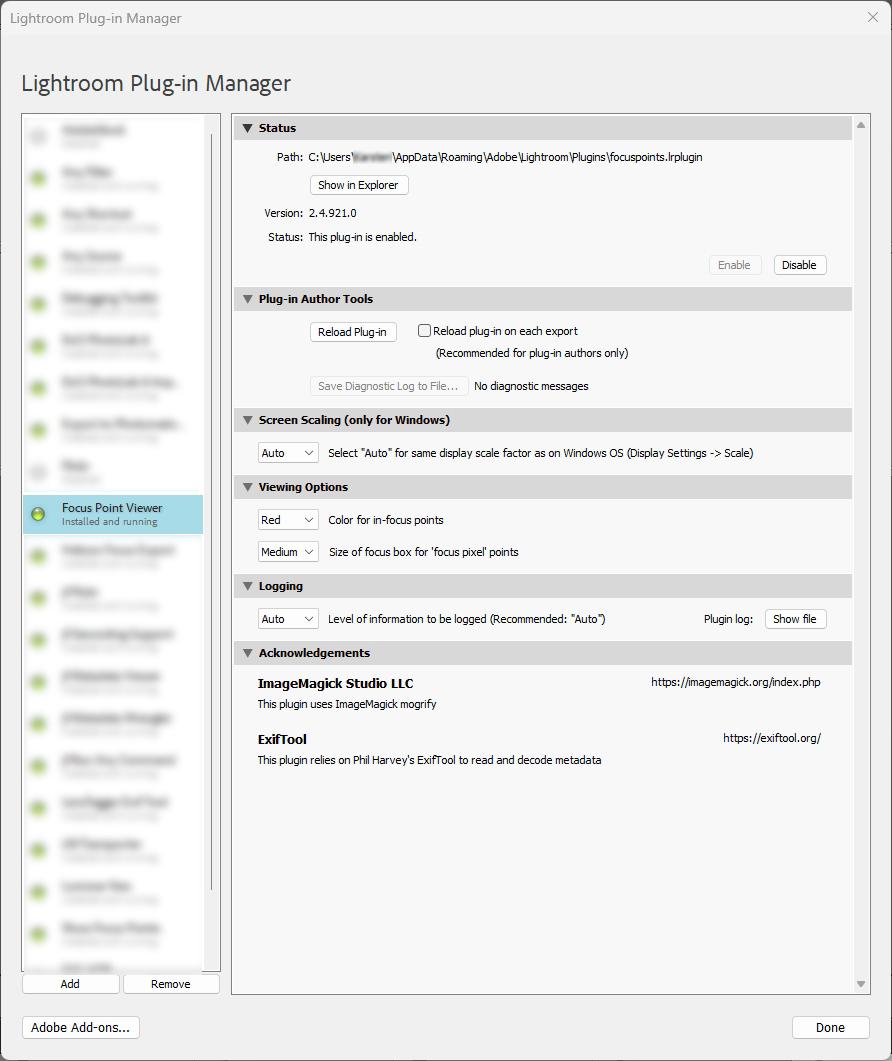
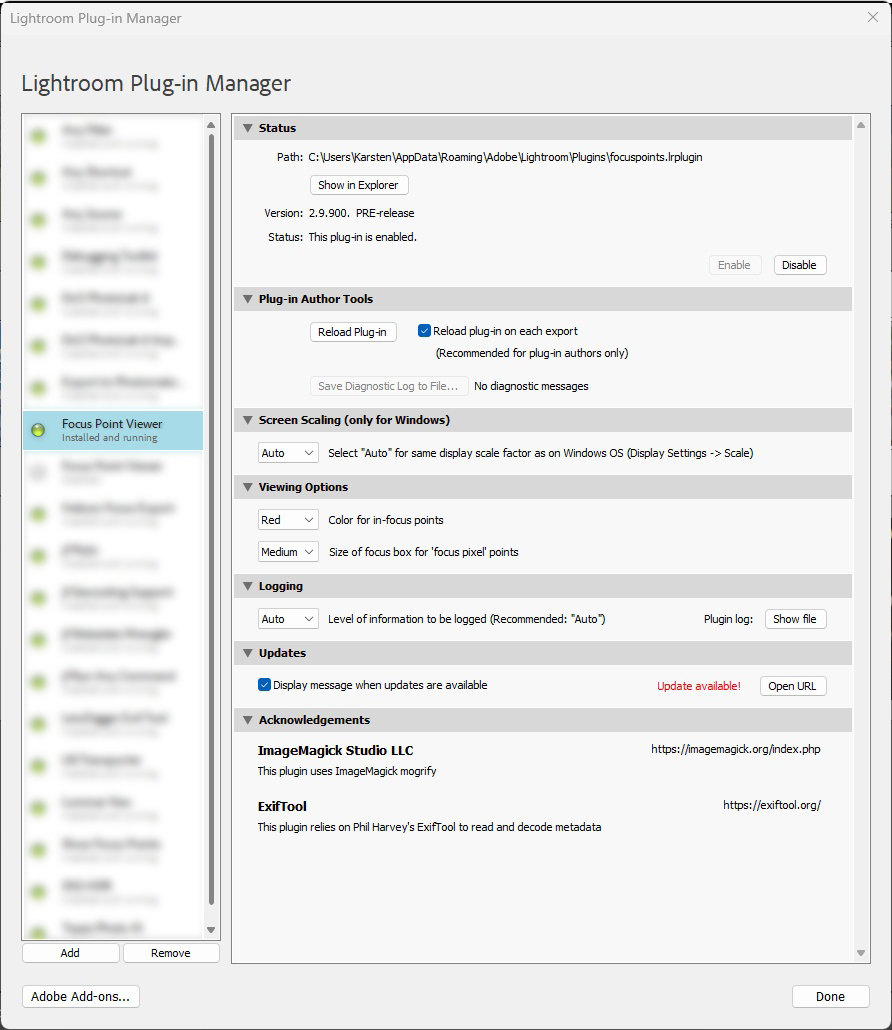
Updated docs

diff --git a/docs/Focus Points.md b/docs/Focus Points.md
@@ -128,6 +128,15 @@ The logging mechanism offers a fin grain hierarchy of levels which information s
 Also, "Auto" logging will start on an empty log file for each image. When opening such a logfile, this will immediately focus on what just happened on the recent image. For all other logging levels, the logfile will be emptied only in case of loading the plugin, which happens at the time of starting LrC or explicitely reloading the plugin.  
 
 
+**Updates**
+
+During operation, the plugin checks whether an updated version is available for download.
+In case there is an update, this will be highlighted and the website can be opened by clicking the button to download. In order to install the update, perform the steps under [Installation](#21-installation) and reload the plugin.    
+
+If an update is available, this will also be displayed in the status area of the focus point viewer, if the "Display message" checkbox is checked:
+
+<img src="../screens/UpdateAvailable.jpg" alt="User Interface (Single image)" style="width: 600px;"/>
+
 
 ### 2.3 Focus Point Viewer
 Once the plugin has been installed, it can be invoked with one or more photos selected:
@@ -321,7 +330,7 @@ Remark: The display of "AF Tracking Sensitivity" and "AF Point Switching" in the
 
 Sony supports face detection on almost all of their mirrorless (alpha) and also compact (RX series) camera. The plugin can display the yellow face detection frames even on images taken with cameras 14 years back where it's not possible to detect focus points using EXIF data.
 
-On Sony, the size of the focus point box is determined by the size of a PDAF point (or focal plane autofocus point, in Sony terminology). So, the color of the box can be changed in plugin preferenes but not its size.
+For Sony, the focus point of an image is given by the (x,y) coordinates of the 'focus pixel". So, for improved visualization you can choose focus box size and color in the plugin's preferences. 
 
 As for the settings in Sony's AF menu, in contrast to Canon and Nikon there's not much that you can find in EXIF makernotes. That's why the focus information section is rather empty. Sony also doesn't have a focus distance tag, so there is no Depth of Field section either.
 

diff --git a/README.md b/README.md
@@ -12,7 +12,7 @@ For details on scope and limitations as well as comprehensive operating instruct
 
 Current Release
 --------
-## V3.0, March 28, 2025
+## V3.0, April xx, 2025
 
 ### New features and changes:
  
@@ -30,7 +30,7 @@ Current Release
 
 * **Camera specific improvements to focus point detection and display**
   * Nikon: added full support of Mirrorless and all DSLRs with 39 or more autofocus points  [#203](https://github.com/musselwhizzle/Focus-Points/issues/203), [#208](https://github.com/musselwhizzle/Focus-Points/issues/208),  [#209](https://github.com/musselwhizzle/Focus-Points/issues/209), [#211](https://github.com/musselwhizzle/Focus-Points/issues/211), [#212](https://github.com/musselwhizzle/Focus-Points/issues/212).
-  * Sony: fixed coordinates of phase detection focus points [#176](https://github.com/musselwhizzle/Focus-Points/issues/176). Unified implementation for Sony Alpha and RX10M4 [#213](https://github.com/musselwhizzle/Focus-Points/issues/213)
+  * Sony: unified implementation for Sony Alpha and RX10M4 [#213](https://github.com/musselwhizzle/Focus-Points/issues/213). Fixed coordinates of phase detection focus points [#176](https://github.com/musselwhizzle/Focus-Points/issues/176). Fixed incorrect position of focus point display of in-camera cropped images (1:1, 4:3, 16:9) [#228](https://github.com/musselwhizzle/Focus-Points/issues/228) 
   * Face detection frames added for Sony [#222](https://github.com/musselwhizzle/Focus-Points/issues/222), Panasonic [#223](https://github.com/musselwhizzle/Focus-Points/issues/223), Olympus [#219](https://github.com/musselwhizzle/Focus-Points/issues/219), Apple [#218](https://github.com/musselwhizzle/Focus-Points/issues/218). 
   * Face and subjection detection frames added for Fuji [#165](https://github.com/musselwhizzle/Focus-Points/issues/165).
   * Pentax: Fixed a problem that prevented the plugin from recognizing K-3, K-1 and K-1 Mark II [#206](https://github.com/musselwhizzle/Focus-Points/issues/206).

diff --git a/docs/changelog.md b/docs/changelog.md
@@ -19,7 +19,7 @@ Change history
 
 * **Camera specific improvements to focus point detection and display**
   * Nikon: added full support of Mirrorless and all DSLRs with 39 or more autofocus points  [#203](https://github.com/musselwhizzle/Focus-Points/issues/203), [#208](https://github.com/musselwhizzle/Focus-Points/issues/208),  [#209](https://github.com/musselwhizzle/Focus-Points/issues/209), [#211](https://github.com/musselwhizzle/Focus-Points/issues/211), [#212](https://github.com/musselwhizzle/Focus-Points/issues/212).
-  * Sony: fixed coordinates of phase detection focus points [#176](https://github.com/musselwhizzle/Focus-Points/issues/176). Unified implementation for Sony Alpha and RX10M4 [#213](https://github.com/musselwhizzle/Focus-Points/issues/213)
+  * Sony: unified implementation for Sony Alpha and RX10M4 [#213](https://github.com/musselwhizzle/Focus-Points/issues/213). Fixed coordinates of phase detection focus points [#176](https://github.com/musselwhizzle/Focus-Points/issues/176). Fixed incorrect position of focus point display of in-camera cropped images (1:1, 4:3, 16:9) [#228](https://github.com/musselwhizzle/Focus-Points/issues/228)
   * Face detection frames added for Sony [#222](https://github.com/musselwhizzle/Focus-Points/issues/222), Panasonic [#223](https://github.com/musselwhizzle/Focus-Points/issues/223), Olympus [#219](https://github.com/musselwhizzle/Focus-Points/issues/219), Apple [#218](https://github.com/musselwhizzle/Focus-Points/issues/218). 
   * Face and subjection detection frames added for Fuji [#165](https://github.com/musselwhizzle/Focus-Points/issues/165).
   * Pentax: Fixed a problem that prevented the plugin from recognizing K-3, K-1 and K-1 Mark II [#206](https://github.com/musselwhizzle/Focus-Points/issues/206).
